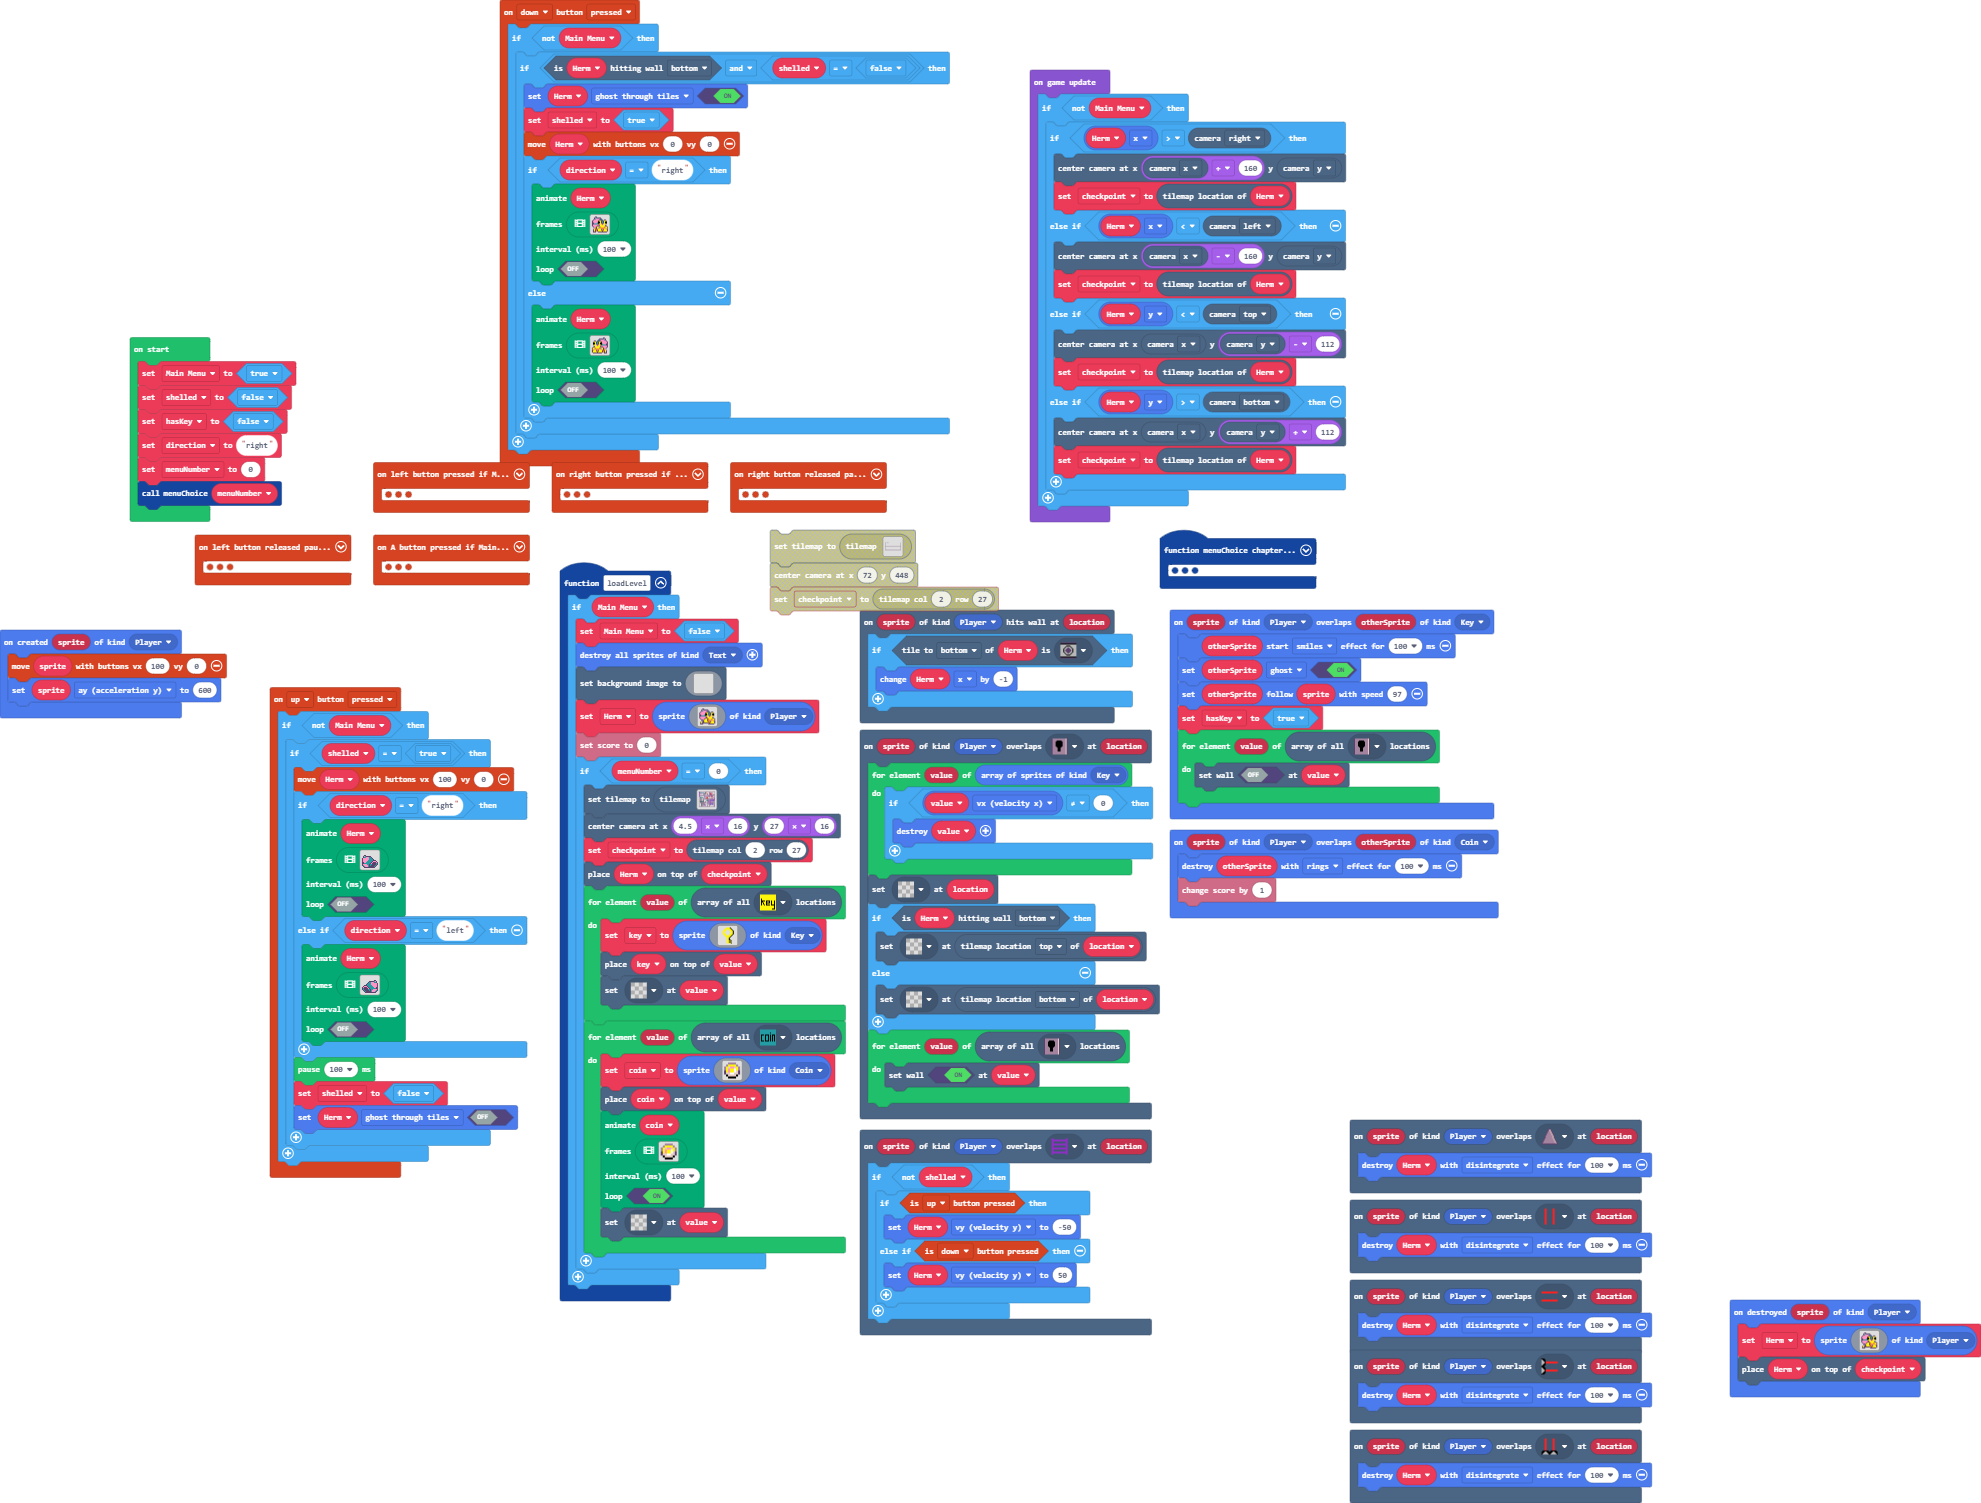
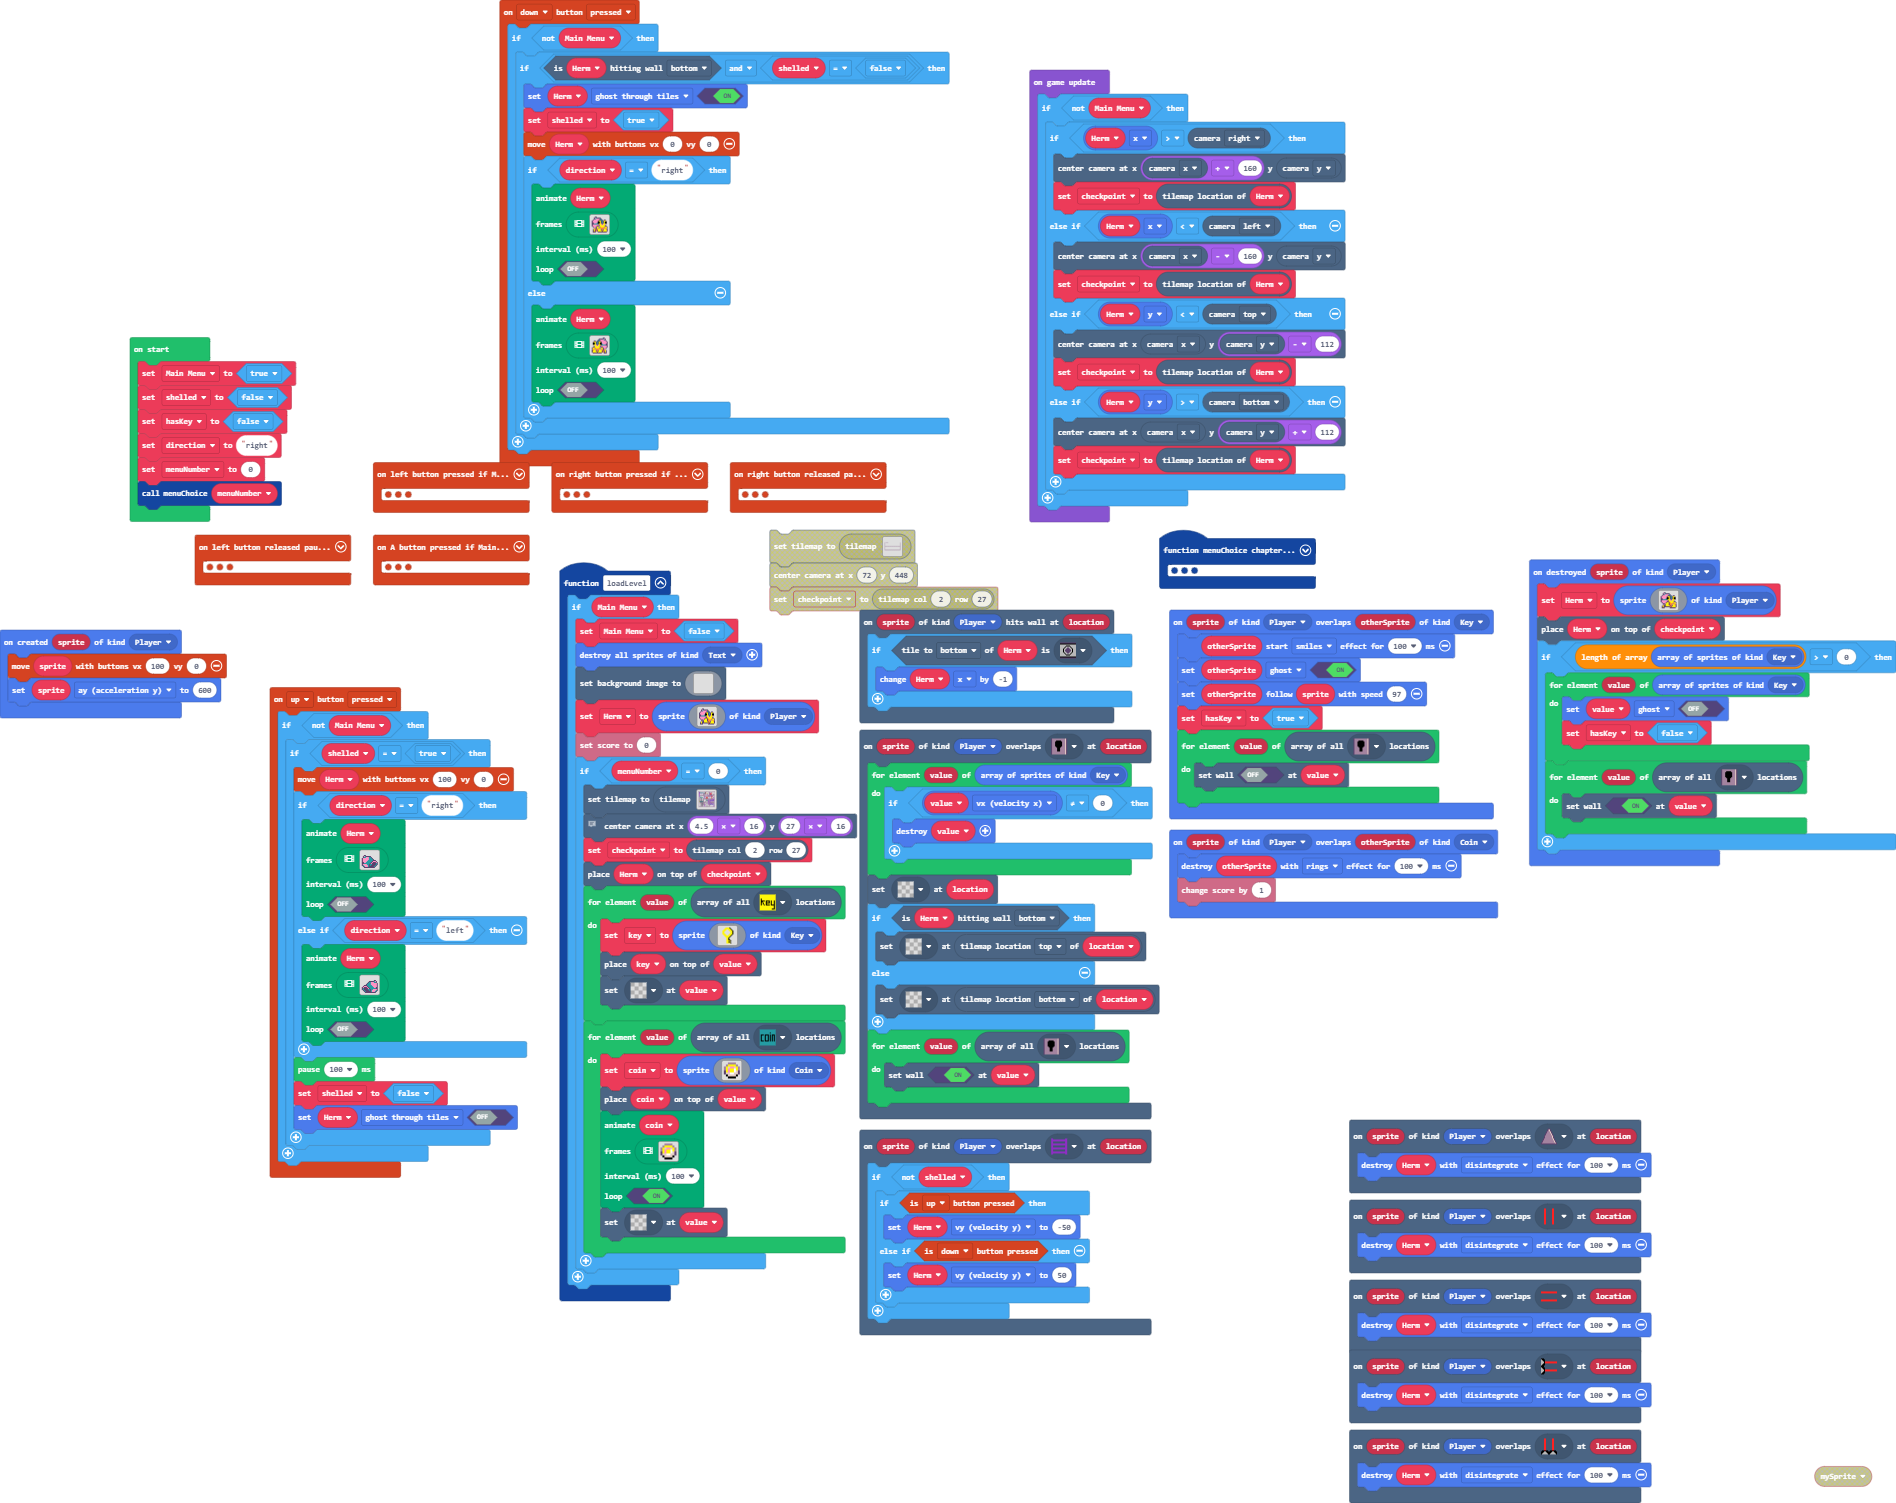
key fix

diff --git a/main.ts b/main.ts
@@ -646,6 +646,7 @@ function loadLevel () {
         info.setScore(0)
         if (menuNumber == 0) {
             tiles.setCurrentTilemap(tilemap`level2`)
+            // column at half of the room, same row as Herm.
             scene.centerCameraAt(4.5 * 16, 27 * 16)
             checkpoint = tiles.getTileLocation(2, 27)
             tiles.placeOnTile(Herm, checkpoint)
@@ -1121,6 +1122,15 @@ sprites.onDestroyed(SpriteKind.Player, function (sprite) {
         . c c c . . . . . c c c c c c . 
         `, SpriteKind.Player)
     tiles.placeOnTile(Herm, checkpoint)
+    if (sprites.allOfKind(SpriteKind.Key).length > 0) {
+        for (let value of sprites.allOfKind(SpriteKind.Key)) {
+            value.setFlag(SpriteFlag.Ghost, false)
+            hasKey = false
+        }
+        for (let value of tiles.getTilesByType(assets.tile`myTile8`)) {
+            tiles.setWallAt(value, true)
+        }
+    }
 })
 sprites.onCreated(SpriteKind.Player, function (sprite) {
     controller.moveSprite(sprite, 100, 0)
